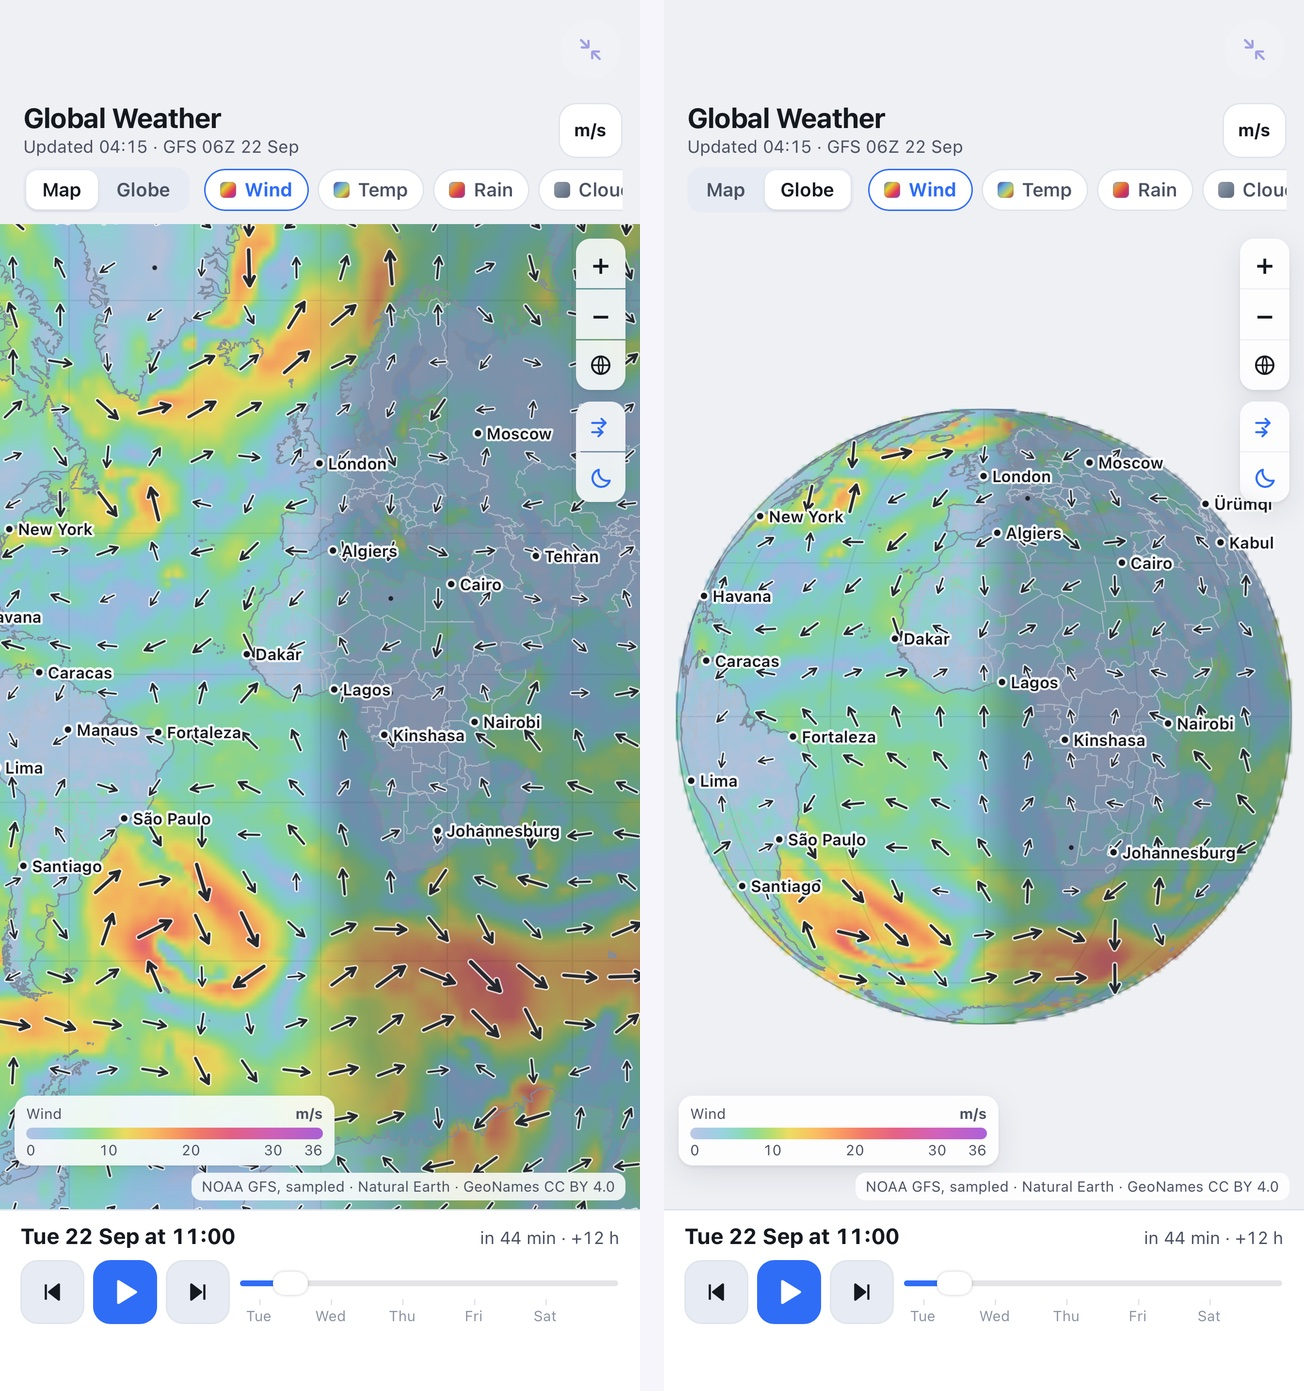
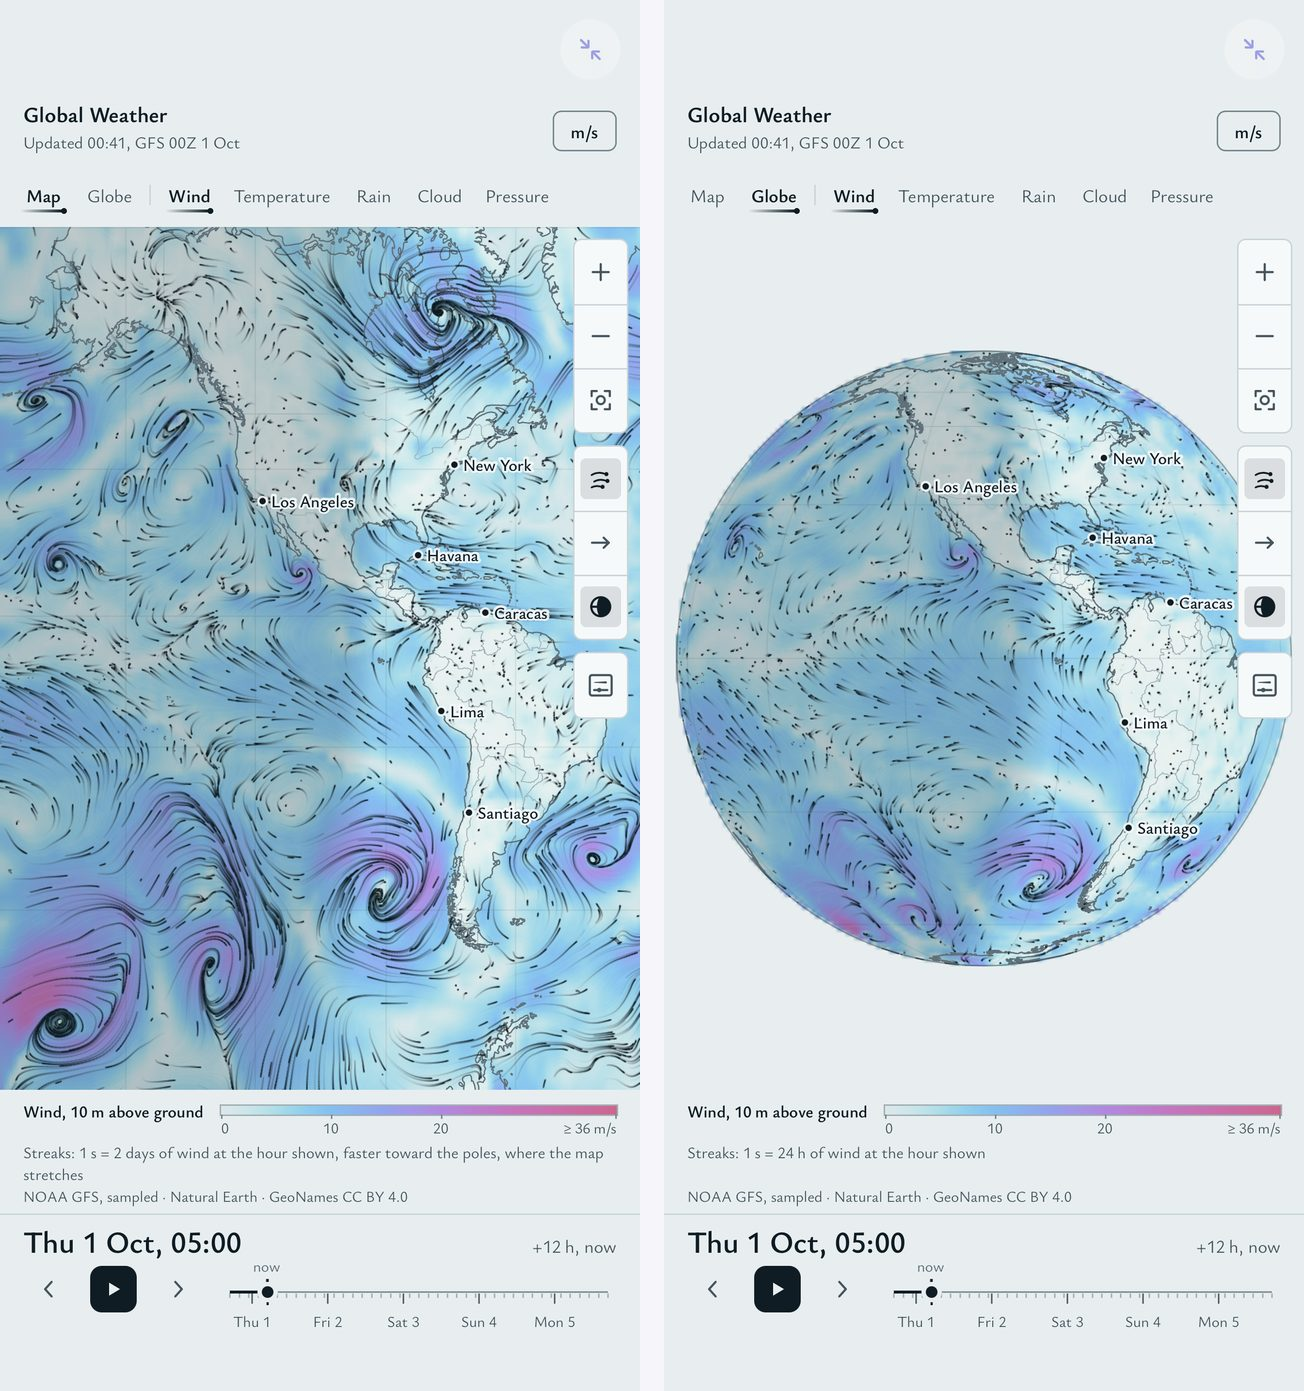
Snuggery site: Global Weather and Global Wind after the Flow pass — the showpieces card and both composites

diff --git a/snuggery/examples/index.html b/snuggery/examples/index.html
@@ -141,7 +141,7 @@ browser, with its ZIP and what it needs.</p>
     <li>
         <video width="720" height="1566" class="clip" aria-label="Clip: Global Weather running in Snuggery, recorded on an iPhone — the map, the globe, temperature and wind, the five-day time player" controls muted playsinline preload="none" poster="../media/clips/plain/global-weather.jpg" src="../media/clips/plain/global-weather.mp4"></video>
         <h3>Global Weather</h3>
-        <p>Five days of global weather on a map or a globe, with a time player. A GitHub Action in the template refreshes its data.</p>
+        <p>Five days of global weather on a map or a globe, drawn as a long exposure: thousands of tracers carried by the forecast's own wind, with the exposure printed under the picture, a time player you can scrub at any speed, and a focus mode. A GitHub Action in the template refreshes its data after each forecast run.</p>
         <p class="links"><a href="https://mtomasgaard.github.io/snuggery-apps-template/global-weather/">Open in your browser</a> <a href="https://github.com/mtomasgaard/snuggery-apps-template/raw/main/zips/global-weather.zip">Get the ZIP</a></p>
     </li>
 </ul>
